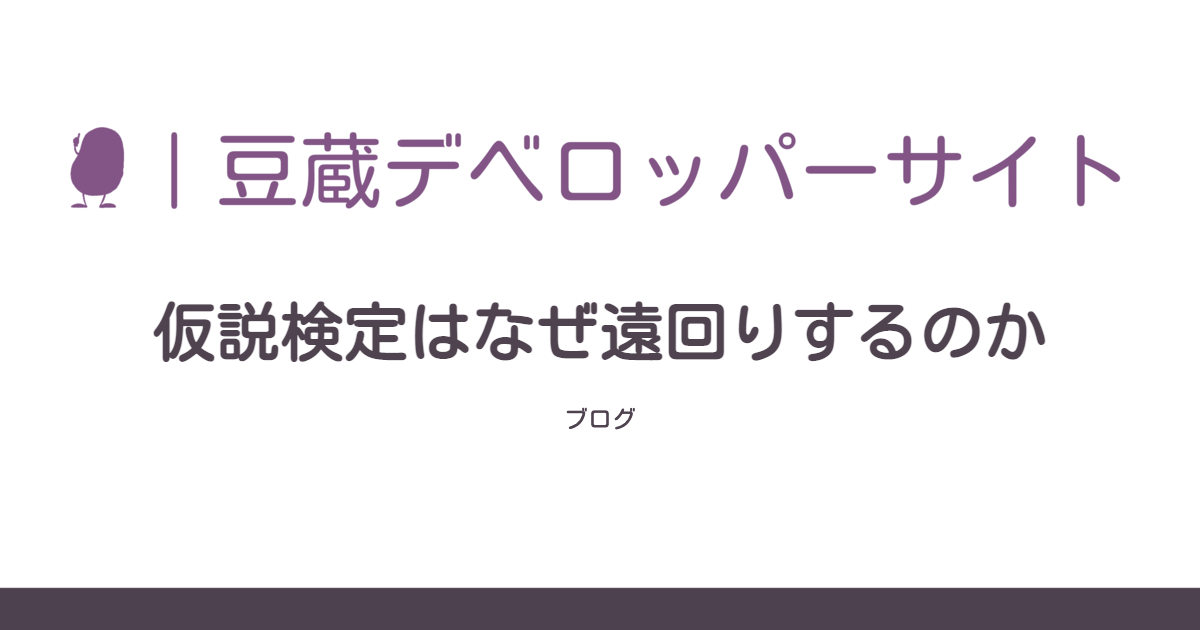
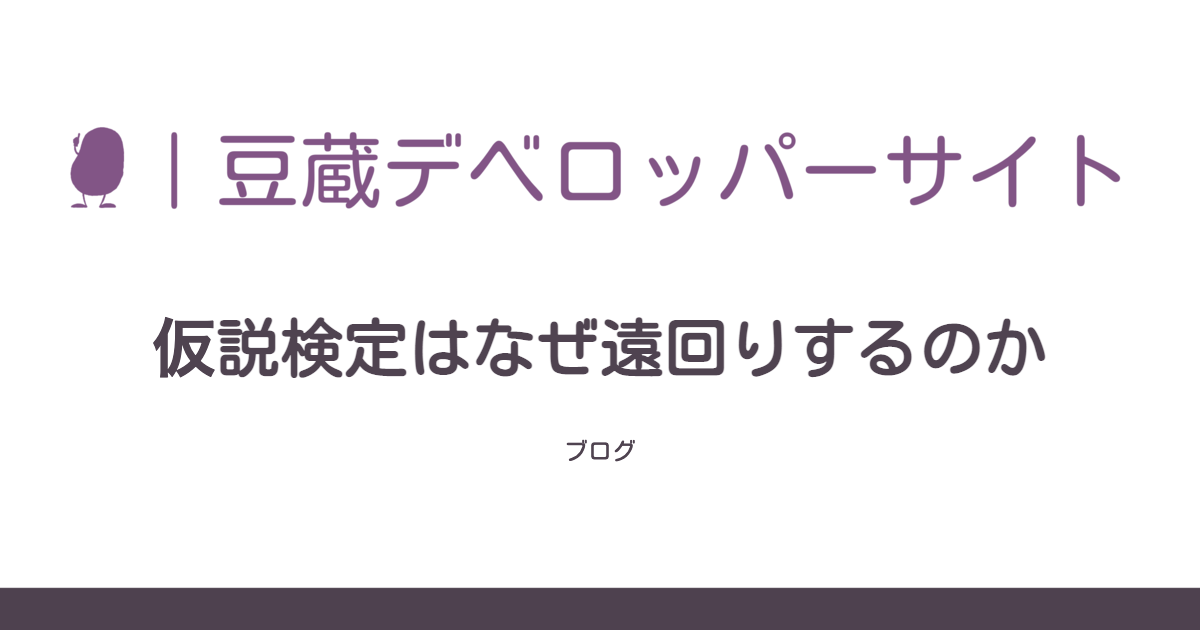
リモートワーク環境の2を追加 (#215)
* とりあえずこんな感じでしょうか。

* Add OGP images for social media

* インデントの微妙なずれを修正

* 度々申し訳ありません。インデントがずれている

* 強調したいところを見出しにしてみました。

* タイトル変更しました

* Add OGP images for social media

* タイトルとタッチタイピングの修正。

* Add OGP images for social media

* Add contributor and remove unused images

* Add OGP images for social media

Changed region(s): [[0.1233, 0.4825, 0.8942, 0.6032], [0.4625, 0.6333, 0.5242, 0.754]]

diff --git a/src/_data/contributors.js b/src/_data/contributors.js
@@ -6,5 +6,6 @@ module.exports = {
   "satoshi-kawasaki": "satoshi-kawasaki",
   "yoshihisa-muta": "ymuta",
   "shuichi-takatsu": "shuichi-takatsu",
-  "nozomu-tanaka": "nzm-tnk"
+  "nozomu-tanaka": "nzm-tnk",
+  "tadahiro-imada": "tadahima"
 };
